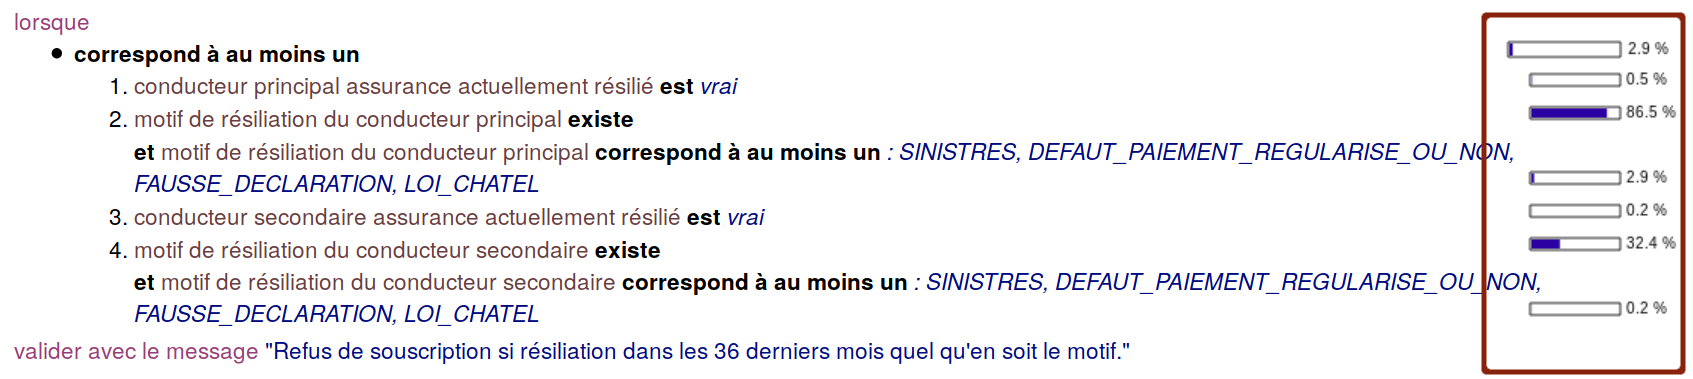
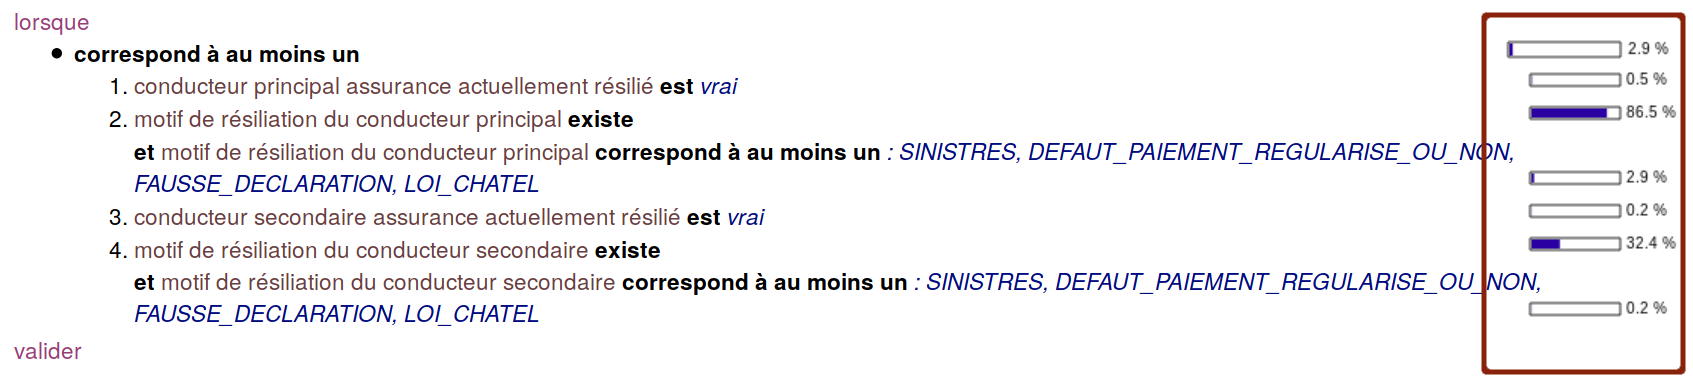
draft of the JDK.IO slides (continue)

Changed region(s): [[0.0307, 0.8997, 0.6757, 0.9578]]

diff --git a/docs/dsl_to_go_beyond_bean_validation_jdk_io.html b/docs/dsl_to_go_beyond_bean_validation_jdk_io.html
@@ -275,7 +275,8 @@ wrapper.get(SampleFieldId.<mark class="fragment">LOGIN</mark>); // bob</code></p
 }
 
 class User {
-  @Path(field = <mark class="fragment">EMAIL</mark>)
+  @Path(field = <mark class="fragment">EMAIL</mark>
+        readable = ...)
   String email;
 }
 
@@ -287,8 +288,12 @@ enum ModelFieldId {
               <div class="column fragment">
                 <p><strong>code generate</strong></p>
                 <div class="code-wrapper">
-                  <pre class="prettyprint"><code class="code lang-java" data-trim data-noescape>class ModelFieldIdInfo {
-  FieldInfo <mark class="fragment">userEmail()</mark>;
+                  <pre class="prettyprint"><code class="code lang-java" data-trim data-noescape>class ModelFieldInfo {
+  FieldInfo <mark class="fragment">EMAIL</mark>;
+}
+
+class DslModel {
+  StringFieldInfo <mark class="fragment">userEmail</mark>;
 }
 
 class ModelWrapper {
@@ -301,7 +306,7 @@ class ModelWrapper {
                 <div class="code-wrapper">
                   <pre class="prettyprint"><code class="code lang-java" data-trim data-noescape>class Validations {
   ValidationRule email = 
-    DOOV.when(<mark class="fragment">userEmail()</mark>.eq(...))
+    DOOV.when(<mark class="fragment">userEmail</mark>.eq(...))
         .validate()
         .register(REGISTRY_DEFAULT);
 }</code></pre>
@@ -329,7 +334,11 @@ ModelWrapper <mark class="fragment">wrap</mark>
               <div class="column fragment">
                 <p><strong>execute</strong></p>
                 <div class="code-wrapper">
-                  <pre class="prettyprint"><code class="code lang-java" data-trim data-noescape>REGISTRY_DEFAULT.stream()
+                  <pre class="prettyprint"><code class="code lang-java" data-trim data-noescape>// Directly reference rule email
+Validations.email.executeOn(<mark class="fragment">wrap</mark>);
+
+// Or use the registry
+REGISTRY_DEFAULT.stream()
   .map(rule -&gt; rule.executeOn(<mark class="fragment">wrap</mark>));</code></pre>
                 </div>
               </div>
@@ -399,14 +408,12 @@ ModelWrapper <mark class="fragment">wrap</mark>
             <div class="code-wrapper small">
               <pre class="prettyprint"><code class="code lang-java" data-trim data-noescape>ValidationRule userAccount = DOOV
   // Entry point is when
-  .when(userBirthdate().ageAt(today()).greaterOrEquals(18)
-   .and(accountEmail().length().lesserOrEquals(configurationMaxEmailSize()))
-   .and(accountCountry().eq(Country.FR))
-   .and(accountPhoneNumber().startsWith("+33")))
+  .when(userBirthdate.ageAt(today()).greaterOrEquals(18)
+   .and(accountEmail.length().lesserOrEquals(configurationMaxEmailSize))
+   .and(accountCountry.eq(Country.FR))
+   .and(accountPhoneNumber.startsWith("+33")))
   // Terminal operation is validate
   .validate()
-  // Optional: add message
-  .withMessage("user account")
   // Optional: add to registry
   .registerOn(REGISTRY_DEFAULT);</code></pre>
             </div>
@@ -436,8 +443,7 @@ public void should_user_account_validates() {
             <div class="code-wrapper">
               <pre class="prettyprint"><code class="code lang-java" data-trim data-noescape>DOOV.when(accountEmail().matches("\\w+[@]\\w+\\.com")
       .or(accountEmail().matches("\\w+[@]\\w+\\.fr")))
-    .validate()
-    .withMessage("email finishes with .com or .fr");</code></pre>
+    .validate();</code></pre>
             </div>
             <p class="fragment">This is <strong>lazy</strong></p>
           </section>
@@ -448,8 +454,7 @@ public void should_user_account_validates() {
             <p>This makes <strong>auditability</strong> and <strong>compliance</strong> possible.</p>
             <div class="code-wrapper">
               <pre class="prettyprint"><code class="code lang-java" data-trim data-noescape>System.out.println(EMAIL_VALID.readable());
-&gt; When (email matches '\w+[@]\w+\.com' or email matches '\w+[@]\w+\.fr')
-&gt;   validate with message "email finishes with .com or .fr"</code></pre>
+&gt; When (email matches '\w+[@]\w+\.com' or email matches '\w+[@]\w+\.fr') validate</code></pre>
             </div>
           </section>
 
@@ -625,7 +630,7 @@ private String aboutMe;</code></pre>
             <h2>DSL</h2>
             <div class="code-wrapper">
               <pre class="prettyprint"><code class="code lang-java" data-trim data-noescape>userAboutMe().length().between(10, 200).validate().readable()
-> When user about me length is between 10 and 200, validate with message... </code></pre>
+> When user about me length is between 10 and 200, validate</code></pre>
             </div>
           </section>
 

diff --git a/docs/dsl_to_go_beyond_bean_validation_english_short.html b/docs/dsl_to_go_beyond_bean_validation_english_short.html
@@ -508,7 +508,7 @@ private String aboutMe;</code></pre>
             <h2>DSL</h2>
             <div class="code-wrapper">
               <pre class="prettyprint"><code class="code lang-java" data-trim data-noescape>userAboutMe().length().between(10, 200).validate().readable()
-> When user about me length is between 10 and 200, validate with message... </code></pre>
+> When user about me length is between 10 and 200, validate</code></pre>
             </div>
           </section>
 
